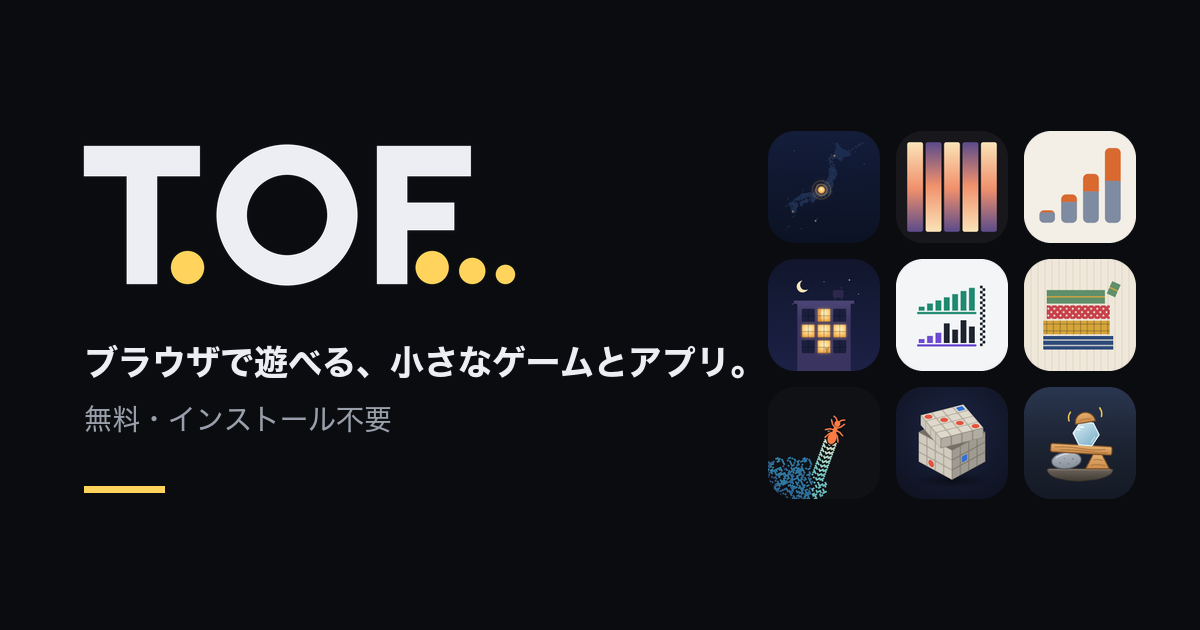
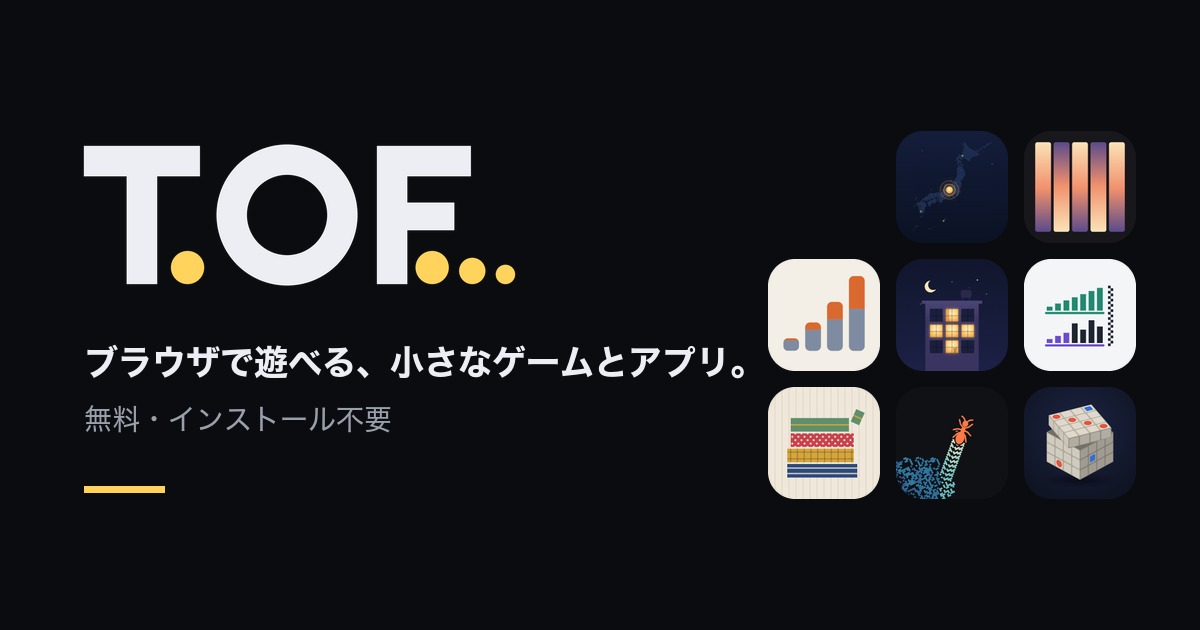
いろわをポータルに追加する
新しいアプリいろわを公開します。apps.js に登録し、共有画像を作り直しました。

Changed region(s): [[0.6167, 0.181, 0.9558, 0.8143]]

diff --git a/apps.js b/apps.js
@@ -13,6 +13,16 @@
 
 window.TOFO_APPS = [
   {
+    id: 'irowa',
+    name: 'いろわ',
+    title: '三つの輪を回して色を戻す',
+    desc: '重なった三つの輪を回して、玉の色を元の並びに戻すパズル。輪が重なる所の玉は二つの輪にまたがるので、一つを回すとほかの輪の並びも崩れる。',
+    category: 'game',
+    tags: ['パズル', '回転'],
+    icon: '/irowa/icons/icon-192.png',
+    color: '#ffe04d',
+  },
+  {
     id: 'meguribi',
     name: 'めぐりび',
     title: '灯りが止まった町へ行く',
